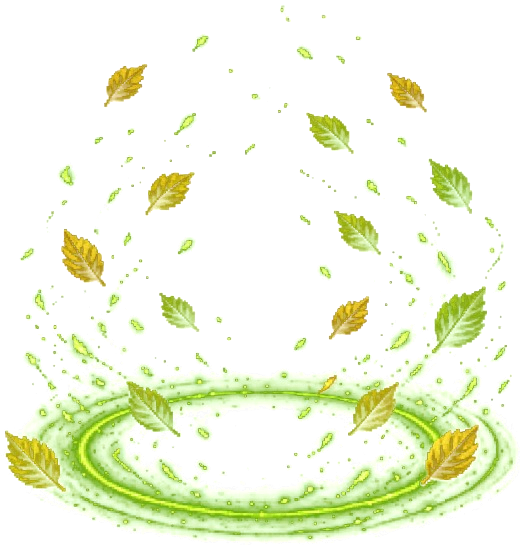
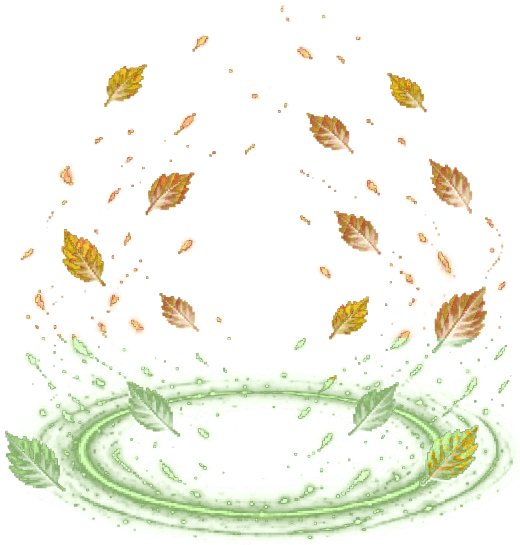
Ауры: центровка, частицы-фигурки, осенние листья; полёт снежка/подарка на сайте; смена ауры в макете
Claude-Session: https://claude.ai/code/session_016vnxAXxP6rRycVd2Q33YK3

diff --git a/test/bigscreen.js b/test/bigscreen.js
@@ -1005,14 +1005,17 @@
   }
 
   // 27.11: ауры героев (как в игре); «чужие ауры» можно скрыть в настройках (колокольчик)
-  const AURA9 = { fire: ['fire', 460, 461], frost: ['frost', 474, 451], leaf: ['leaf', 503, 545], moondust: ['moon', 489, 372], gold: ['gold', 496, 355], shadow: ['shadow', 454, 331], xmas: ['xmas', 529, 376] }, AURA_RY = { fire: 356, frost: 360, leaf: 461, moondust: 249, gold: 255, shadow: 182, xmas: 190 };
+  const AURA9 = { fire: ['fire', 460, 461], frost: ['frost', 474, 451], leaf: ['leaf', 503, 545], moondust: ['moon', 489, 372], gold: ['gold', 496, 355], shadow: ['shadow', 454, 331], xmas: ['xmas', 529, 376] }, AURA_RY = { fire: 332, frost: 354, leaf: 448, moondust: 251, gold: 249, shadow: 195, xmas: 196 }, AURA_OX = { fire: -3, leaf: 4, shadow: 7 };
   function auraSet(el, id, mine) { let d = el.querySelector(':scope > .aura9'); let others = true; try { others = localStorage.getItem('rpgAuraOthers') !== '0'; } catch (e) {}
     const A = id && AURA9[id], show = !!(A && (mine || others));
     if (!show) { if (d) d.remove(); return; }
     if (!d) { d = document.createElement('div'); d.className = 'aura9'; const sh = el.querySelector(':scope > .shadow'); el.insertBefore(d, sh ? sh.nextSibling : el.firstChild); }
     if (d.dataset.id === id) return; d.dataset.id = id; const k = 192 * 1.2 / A[1], w = 520 * k, h = A[2] * k, b = (A[2] - AURA_RY[id]) * k;
-    d.style.cssText = `position:absolute;left:0;bottom:calc(${-b.toFixed(1)}px * var(--hs,1));width:calc(${w.toFixed(1)}px * var(--hs,1));height:calc(${h.toFixed(1)}px * var(--hs,1));transform:translateX(-50%);background:url(img/auras/${A[0]}.png?v=5) center/100% 100% no-repeat;pointer-events:none;animation:aura9 3.2s ease-in-out infinite`; }
-  { const st9 = document.createElement('style'); st9.textContent = '@keyframes aura9{0%,100%{filter:brightness(1) saturate(1)}50%{filter:brightness(1.3) saturate(1.25)}}'; document.head.appendChild(st9); }
+    d.style.cssText = `position:absolute;left:0;bottom:calc(${-b.toFixed(1)}px * var(--hs,1));width:calc(${w.toFixed(1)}px * var(--hs,1));height:calc(${h.toFixed(1)}px * var(--hs,1));transform:translateX(calc(-50% - ${((AURA_OX[id] || 0) * k).toFixed(1)}px * var(--hs,1)));background:url(img/auras/${A[0]}.png?v=6) center/100% 100% no-repeat;pointer-events:none;animation:aura9 3.2s ease-in-out infinite`;
+    const PK = { fire: ['u', '#ffb04a', 'border-radius:1px;transform:rotate(45deg)', 5], frost: ['u', '#e6f6ff', 'border-radius:50%', 4], leaf: ['d', '#d58a3a', 'border-radius:0 80% 0 80%', 9], moondust: ['t', '#efeaff', 'border-radius:50%', 4], gold: ['u', '#ffd24a', 'border-radius:50%;box-shadow:inset -1px -1px #c9961e', 7], shadow: ['u', '#b07aff', 'border-radius:50%;opacity:.7', 6], xmas: ['d', '#ffffff', 'border-radius:50%', 4] }[id];
+    if (PK) { let hh = ''; for (let q = 0; q < 6; q++) { const L = 18 + (q * 13) % 64, T = PK[0] === 't' ? 20 + (q * 17) % 50 : PK[0] === 'u' ? 45 + (q * 7) % 20 : 5 + (q * 11) % 20, dur = PK[0] === 't' ? 1.6 + q * .3 : 2.4 + (q % 3) * .7;
+      hh += `<i style="left:${L}%;top:${T}%;width:${PK[3]}px;height:${PK[0] === 'd' && id === 'leaf' ? PK[3] * .6 : PK[3]}px;background:${PK[1]};${PK[2]};animation:au9${PK[0]} ${dur}s ${-q * .55}s linear infinite"></i>`; } d.innerHTML = hh; } }
+  { const st9 = document.createElement('style'); st9.textContent = '@keyframes aura9{0%,100%{filter:brightness(1) saturate(1)}50%{filter:brightness(1.3) saturate(1.25)}}@keyframes au9u{0%{transform:translateY(0);opacity:0}15%{opacity:1}100%{transform:translateY(-140%);opacity:0}}@keyframes au9d{0%{transform:translateY(-150%) rotate(0);opacity:0}15%{opacity:1}100%{transform:translateY(0) rotate(200deg);opacity:0}}@keyframes au9t{0%,100%{opacity:.2}50%{opacity:1}}.aura9 i{position:absolute;display:block;pointer-events:none}'; document.head.appendChild(st9); }
   window.__auraRefresh = () => { document.querySelectorAll('#bsActors .aura9').forEach(d => { d.dataset.id = ''; }); try { if (window.__panel && __panel.render) __panel.render(); } catch (e) {} };
   function fillActors(c) {
     const box = $('#bsActors'), st = c.state, l = bsLoc;

diff --git a/test/wint.js b/test/wint.js
@@ -22,8 +22,18 @@
     const y = r.top + r.height * 0.28; bS.style.display = bG.style.display = 'flex';
     bS.style.left = Math.max(4, r.left + r.width * 0.12 - 46) + 'px'; bG.style.left = Math.min(innerWidth - 46, r.right - r.width * 0.12 + 6) + 'px'; bS.style.top = bG.style.top = Math.max(4, y) + 'px';
   }
-  bS.onclick = () => { if (bS.classList.contains('off') || !tgt) return; const n = tgt; close(); try { PanelActions.fire('снежок', n, 'Снежок'); } catch (e) {} };
-  bG.onclick = () => { if (bG.classList.contains('off') || !tgt) return; const n = tgt, X = xm(); close(); if (!confirm(`Подарить ${n} новогоднюю коробку за ${X.gc} золота?`)) return; try { PanelActions.fire('подарить', n, 'Подарить'); } catch (e) {} };
+  // 28.11: полёт снежка / подарка от своего героя к цели (на сайте)
+  function throwFx(kind, to) { try { const A = document.querySelector('#bsActors .hero.me img'), B = [...document.querySelectorAll('#bsActors .hero')].find(h => h.dataset.n === to); const Bi = B && B.querySelector('img'); if (!A || !Bi) return;
+    const a = A.getBoundingClientRect(), b = Bi.getBoundingClientRect(), x0 = a.left + a.width / 2, y0 = a.top + a.height * .35, x1 = b.left + b.width / 2, y1 = b.top + b.height * .4, el = document.createElement('div');
+    el.style.cssText = 'position:fixed;left:0;top:0;z-index:2147482100;pointer-events:none;font-size:' + Math.max(18, a.height * .16) + 'px;filter:drop-shadow(0 2px 2px rgba(0,0,0,.5))'; el.textContent = kind === 'snow' ? '⚪' : '🎁';
+    if (kind === 'snow') el.style.cssText += ';width:.8em;height:.8em;border-radius:50%;background:radial-gradient(circle at 35% 35%,#fff,#cfe6ff 60%,#9cc3e8);font-size:' + Math.max(14, a.height * .12) + 'px', el.textContent = '';
+    document.body.appendChild(el); const H = Math.min(160, Math.abs(x1 - x0) * .4 + 40), K = [];
+    for (let i = 0; i <= 12; i++) { const t = i / 12; K.push({ transform: `translate(${x0 + (x1 - x0) * t}px,${y0 + (y1 - y0) * t - H * 4 * t * (1 - t)}px) translate(-50%,-50%) rotate(${t * 540}deg)` }); }
+    el.animate(K, { duration: 650, easing: 'linear' }).onfinish = () => { el.remove(); for (let i = 0; i < 8; i++) { const p = document.createElement('div'), ang = i / 8 * Math.PI * 2, d = 26 + Math.random() * 16;
+      p.style.cssText = `position:fixed;left:${x1}px;top:${y1}px;z-index:2147482100;pointer-events:none;width:7px;height:7px;border-radius:${kind === 'snow' ? '50%' : '1px'};background:${kind === 'snow' ? '#fff' : ['#ffd24a', '#e8484a', '#4ac06a'][i % 3]}`;
+      document.body.appendChild(p); p.animate([{ transform: 'translate(-50%,-50%)', opacity: 1 }, { transform: `translate(${Math.cos(ang) * d - 3}px,${Math.sin(ang) * d - 3}px)`, opacity: 0 }], { duration: 500, easing: 'ease-out' }).onfinish = () => p.remove(); } }; } catch (e) {} }
+  bS.onclick = () => { if (bS.classList.contains('off') || !tgt) return; const n = tgt; close(); throwFx('snow', n); try { PanelActions.fire('снежок', n, 'Снежок'); } catch (e) {} };
+  bG.onclick = () => { if (bG.classList.contains('off') || !tgt) return; const n = tgt, X = xm(); close(); if (!confirm(`Подарить ${n} новогоднюю коробку за ${X.gc} золота?`)) return; throwFx('gift', n); try { PanelActions.fire('подарить', n, 'Подарить'); } catch (e) {} };
   document.addEventListener('click', e => {
     const img = e.target.closest && e.target.closest('#bs.xmc .hero:not(.me) img');
     if (img) { const n = img.closest('.hero').dataset.n; if (n) { e.stopPropagation(); if (tgt === n) close(); else open(n, img); return; } }

diff --git a/test/index.html b/test/index.html
@@ -11,5 +11,5 @@
 <header><h1>📜 Команды для чата</h1><input id="q" type="search" placeholder="Поиск команды: поход, грядка, босс…" aria-label="Поиск"><nav id="nav"></nav></header>
 <main id="list"></main></details>
 <footer>Кнопки выполняют действие от вашего Twitch-ника, без сообщений в чат. Результат показывается под кнопками.</footer>
-<script src="config.js"></script><script src="commands.js?v=bs528"></script><script src="test/actions.js?v=t27"></script><script src="img/h/heroes.js?v=h8b"></script><script src="sprites.js?v=live5"></script><script src="test/panel.js?v=t9"></script><script src="app.js"></script><script src="season.js?v=tr495"></script><script src="test/live6.js?v=t3"></script><script src="changelog.js?v=live32"></script><script src="test/bigscreen.js?v=t16"></script><script src="test/fish.js?v=t1"></script><script src="test/xe.js?v=t22"></script><script src="test/wint.js?v=t2"></script><script src="test/hor.js?v=t15"></script><script src="test/music.js?v=t3"></script>
+<script src="config.js"></script><script src="commands.js?v=bs528"></script><script src="test/actions.js?v=t27"></script><script src="img/h/heroes.js?v=h8b"></script><script src="sprites.js?v=live5"></script><script src="test/panel.js?v=t10"></script><script src="app.js"></script><script src="season.js?v=tr495"></script><script src="test/live6.js?v=t3"></script><script src="changelog.js?v=live32"></script><script src="test/bigscreen.js?v=t17"></script><script src="test/fish.js?v=t1"></script><script src="test/xe.js?v=t22"></script><script src="test/wint.js?v=t3"></script><script src="test/hor.js?v=t15"></script><script src="test/music.js?v=t3"></script>
 </body></html>

diff --git a/test/panel.js b/test/panel.js
@@ -947,6 +947,7 @@
       const tot = rows.reduce((s, x) => s + x[2], 0); if (me.gold < tot) return { id: m.id, ok: false, msg: `нужно ${tot} з, у тебя ${me.gold} (демо)` }; me.gold -= tot;
       if (all) { dr.i = []; dr.t = 0; dr.ok = 0; dr.w = 'всё целое'; } else { dr.i = dr.i.filter(x => x[0] !== m.arg); dr.t = dr.i.reduce((s, x) => s + x[2], 0); dr.ok = dr.i.length && me.gold >= dr.t ? 1 : 0; }
       syncMockEqS(me); render(); return { id: m.id, ok: true, msg: `кузнец чинит (−${tot} з) (демо)` }; }
+    if (me.au && ((m.cmd === 'экип' && me.au.own.includes(m.arg)) || (m.cmd === 'снять' && m.arg === 'аура'))) { me.au.on = m.cmd === 'экип' ? m.arg : ''; Object.values(state.locs || {}).forEach(L => L.forEach(r => { if (r[0] === me.n) { while (r.length < 19) r.push(''); r[19] = me.au.on; } })); render(); try { window.__auraRefresh && __auraRefresh(); } catch (e) {} return { id: m.id, ok: true, msg: me.au.on ? 'надевает ауру (демо)' : 'аура снята (демо)' }; } // 28.11
     return { id: m.id, ok: true, msg: `выполнено (демо): !${m.cmd}${m.arg ? ' ' + m.arg : ''}` };
   }
   // ---------- v48.2: полоса каста босса (видна на любой вкладке, секундомер идёт сам между снимками) ----------
